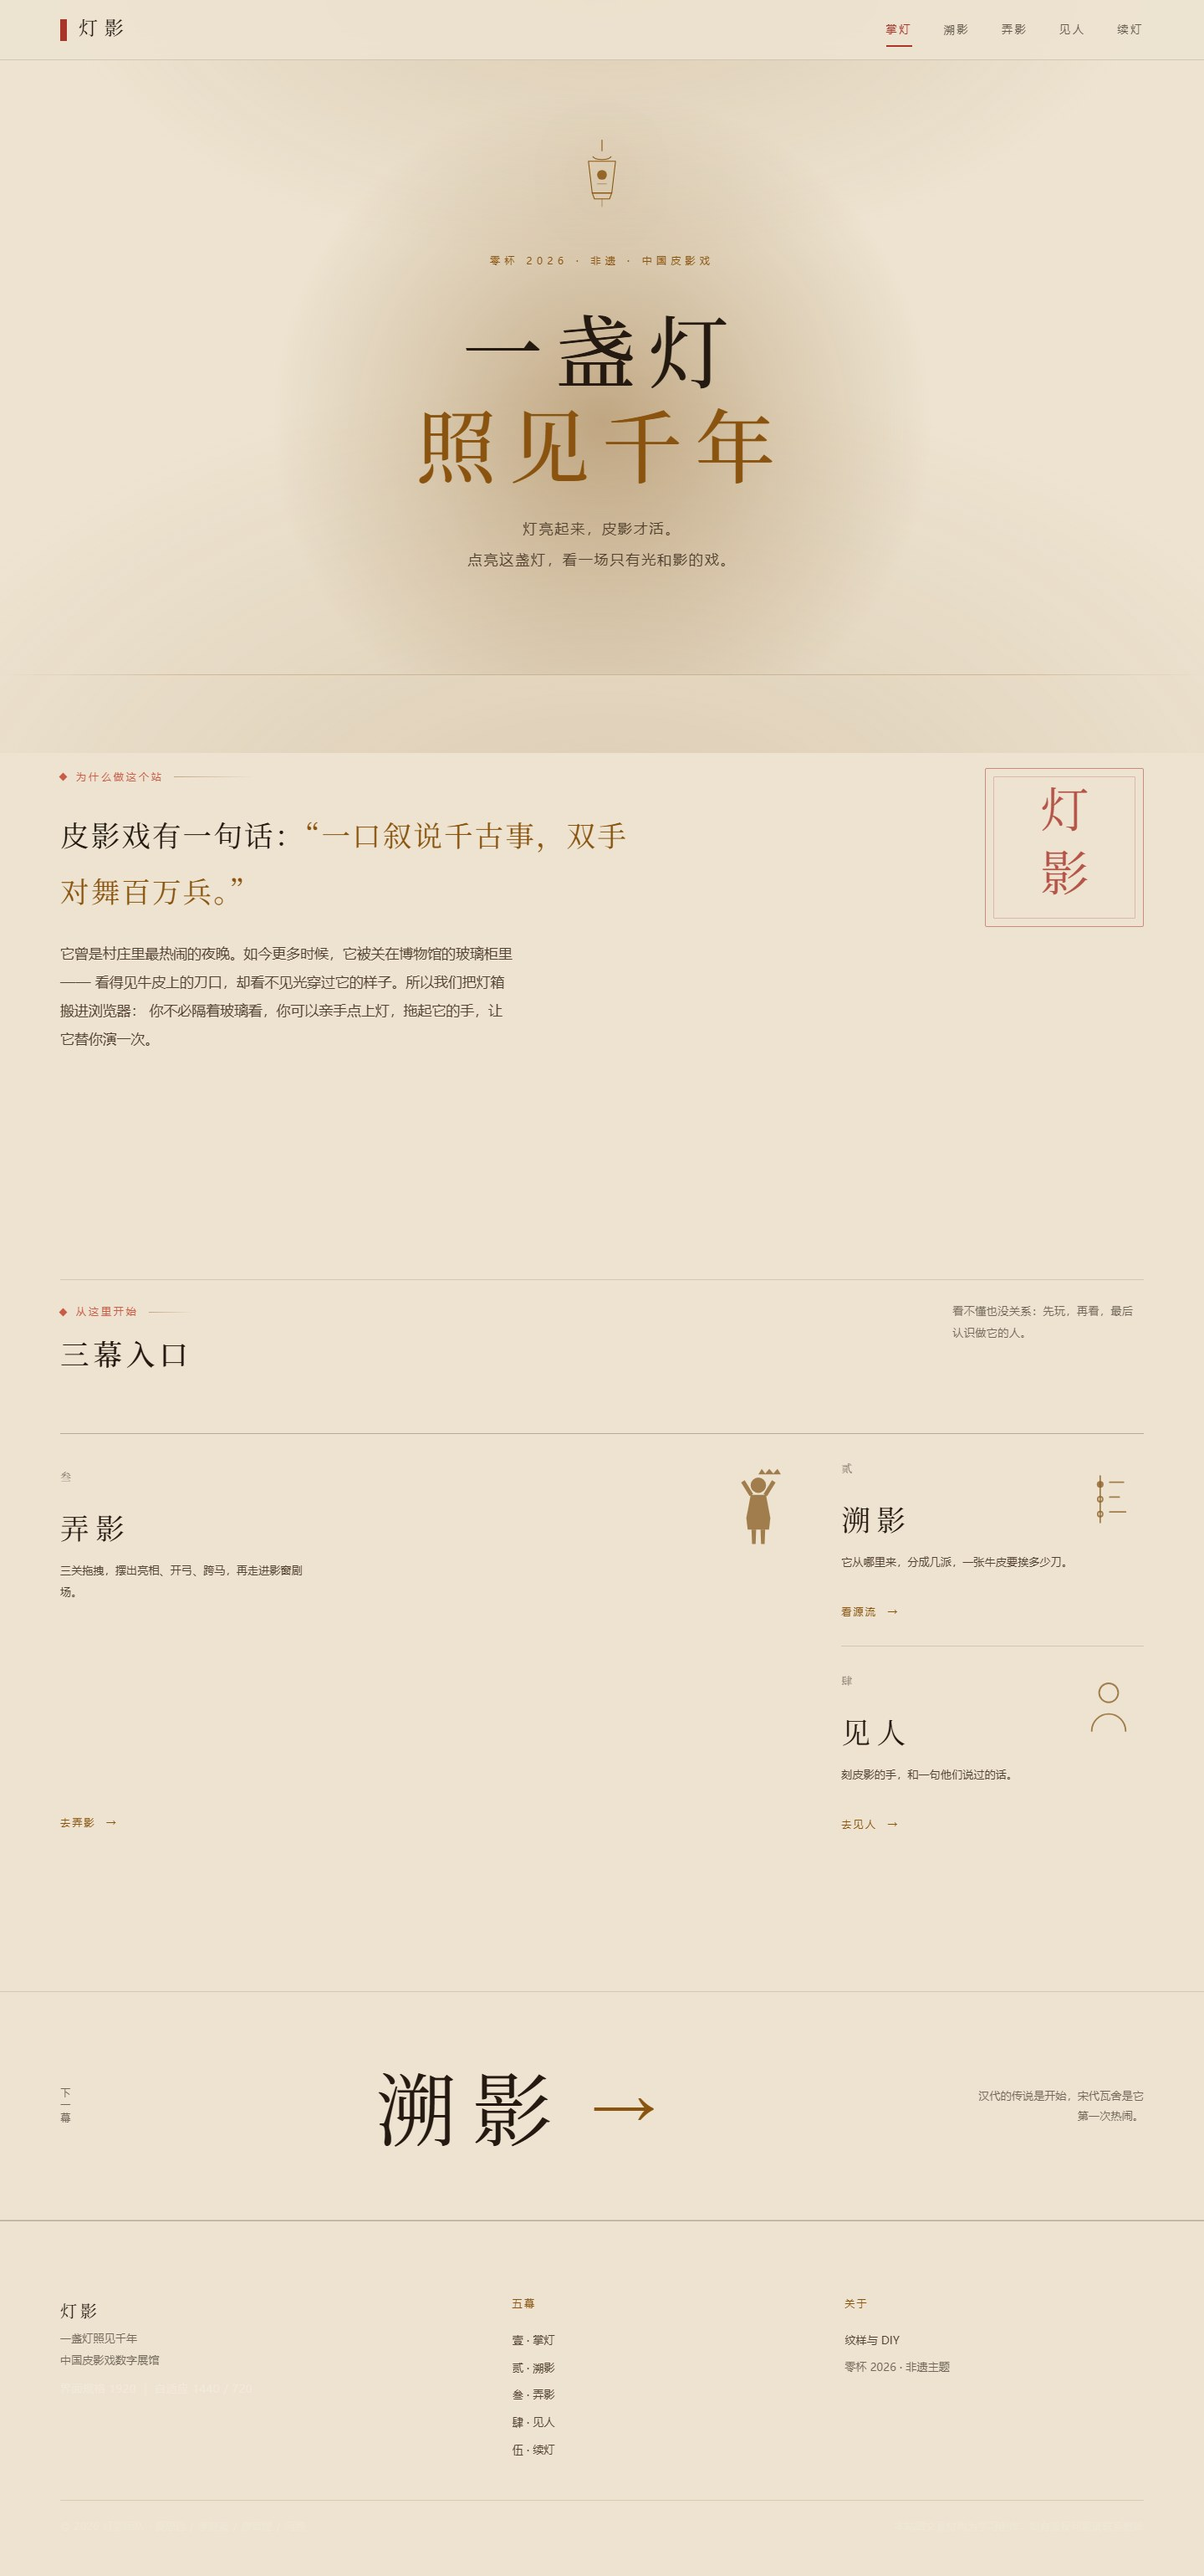
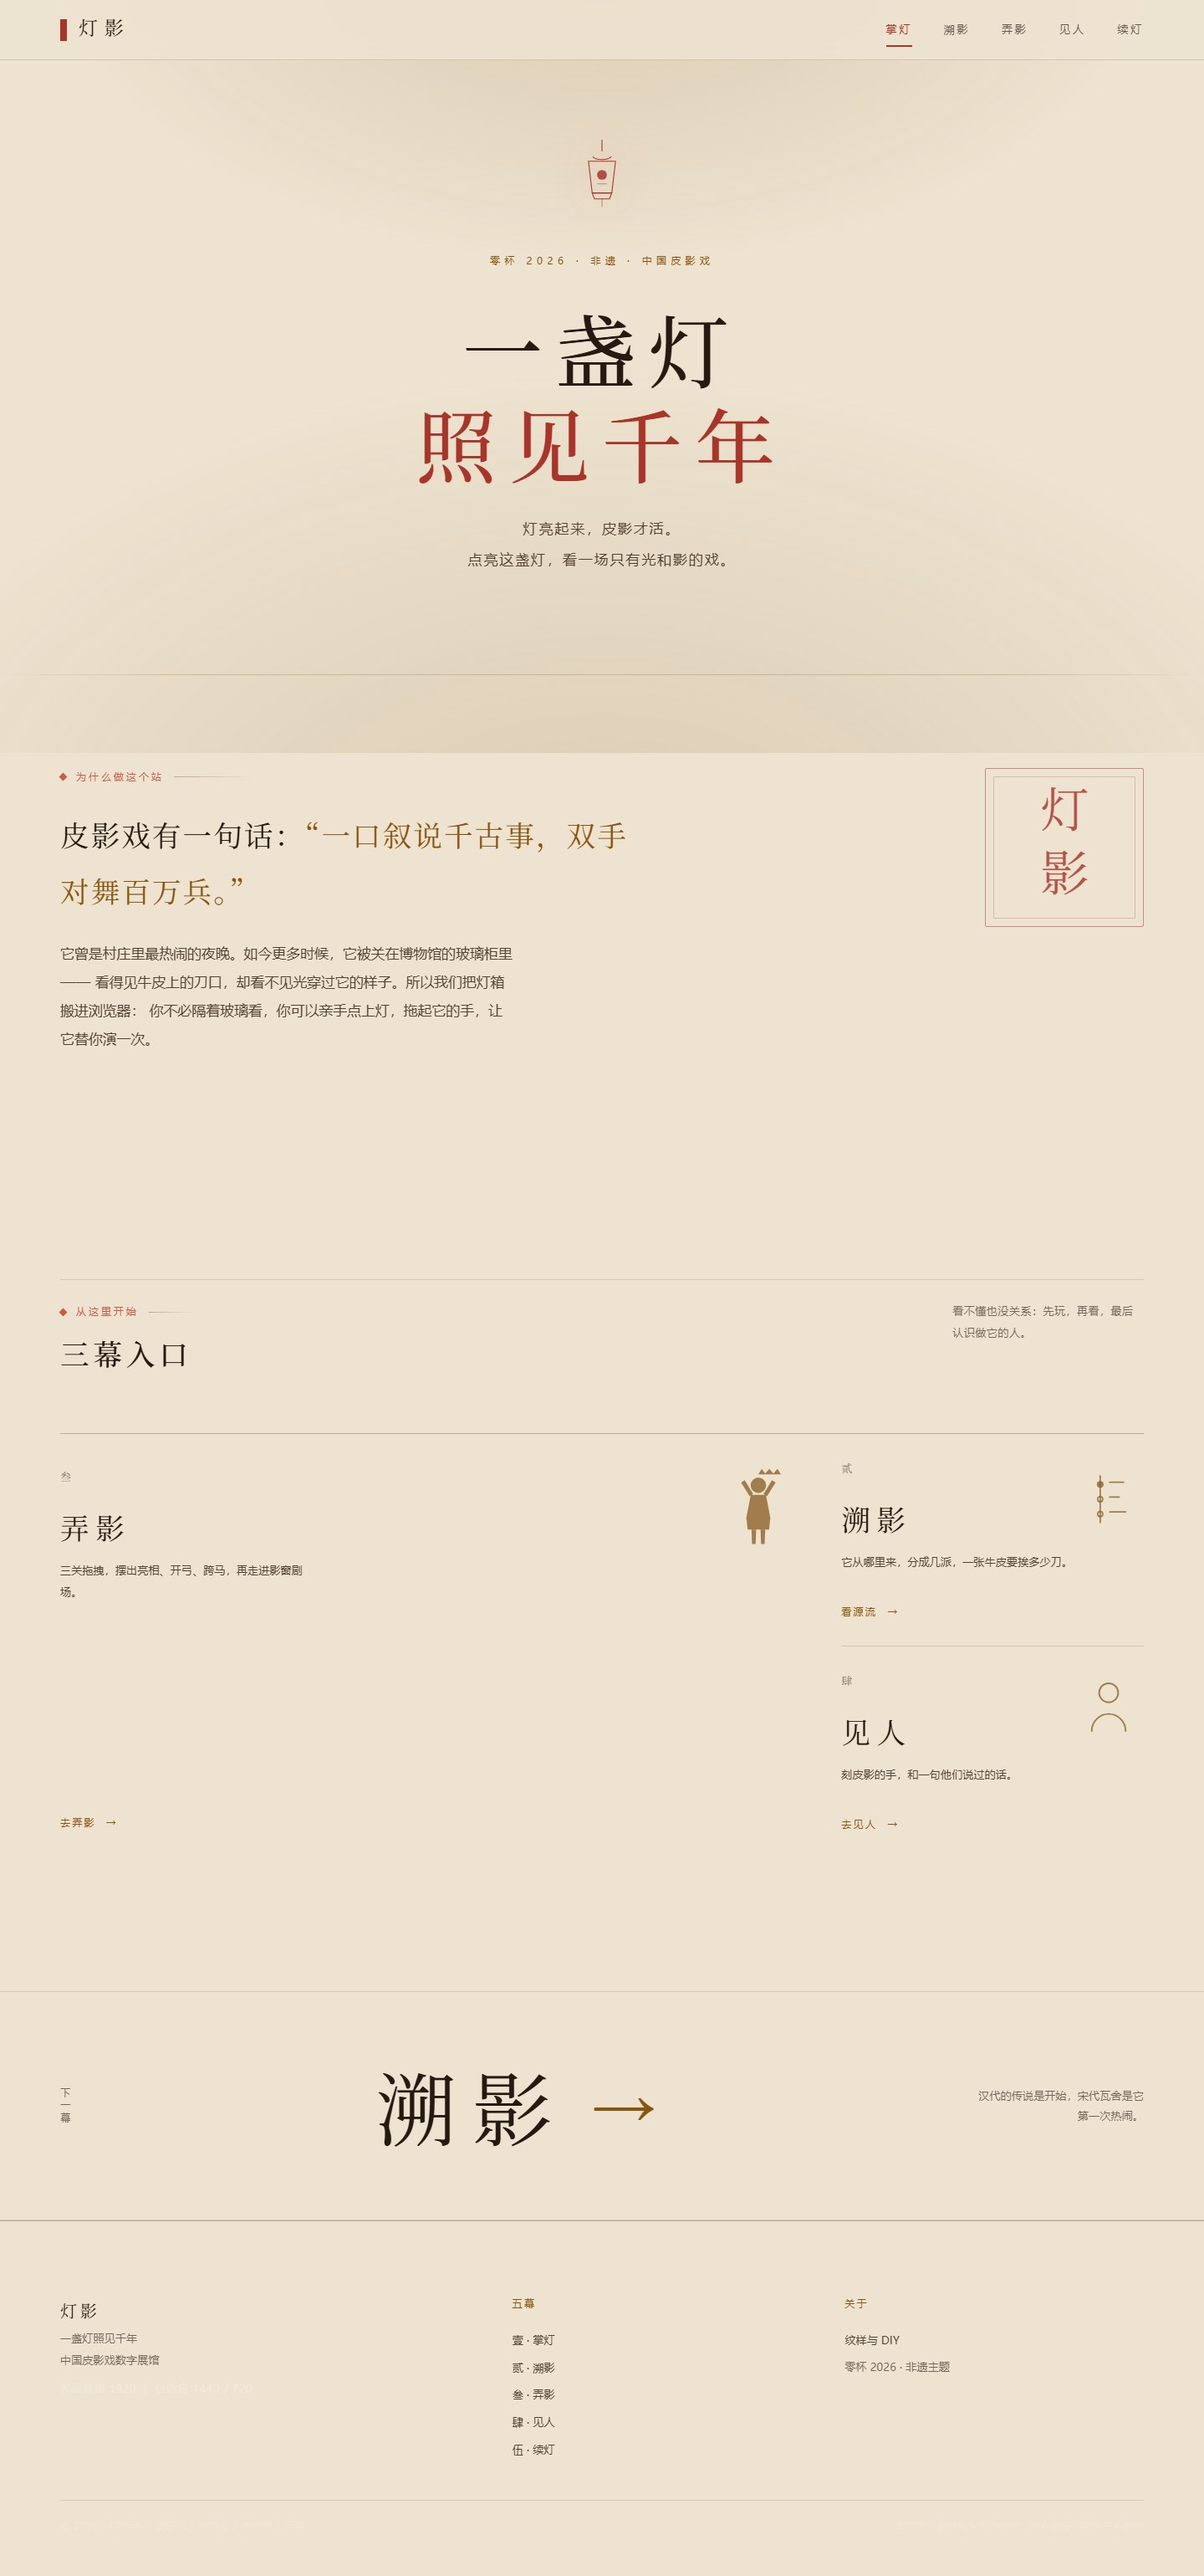
style: 首屏去掉纸面光晕，改为灯本体发亮；修未点灯态文字色
- .hero__glow 在纸底上是一块棕色污渍，直接隐藏；点灯后改为灯图标变朱红 + 红色外发光（光源亮，不是纸亮）
- 修复：body[data-lit=0] 下标题/副文用的是浅色 rgba(244,237,224,.32)，纸底上几乎不可见 → 改 rgba(36,26,18,.30)
- 附带确认：点灯后「点火」按钮本就隐藏（body[data-lit=1]），此前判断为回归属误判
- 回归：30 组审计 0 报错

Changed region(s): [[0.3125, 0.0624, 0.6875, 0.2494]]

diff --git a/web/assets/css/pages.css b/web/assets/css/pages.css
@@ -120,7 +120,7 @@
 body[data-lit="0"] .site { opacity: 0; visibility: hidden; }
 body[data-lit="0"] .hero__title,
 body[data-lit="0"] .hero__sub,
-body[data-lit="0"] .hero__kicker { opacity: 1; transform: none; color: rgba(244, 237, 224, .32); }
+body[data-lit="0"] .hero__kicker { opacity: 1; transform: none; color: rgba(36, 26, 18, .30); }
 body[data-lit="0"] .hero__lamp { opacity: .42; }
 body[data-lit="0"] .nav { background: transparent; border-color: transparent; }
 body[data-lit="0"] .nav__links { opacity: 0; pointer-events: none; }
@@ -308,3 +308,11 @@ body[data-lit="1"] .hero__scroll { display: none; }
     padding: 0 0 12px;
   }
 }
+
+/* 纸上是不会发光的：去掉整片光晕，只让灯自己亮 */
+.hero__glow { display: none; }
+body[data-lit="1"] .hero__lamp {
+  color: var(--cinnabar);
+  filter: drop-shadow(0 0 26px rgba(178, 58, 40, .38));
+}
+body[data-lit="1"] .hero__title em { color: var(--cinnabar); }
